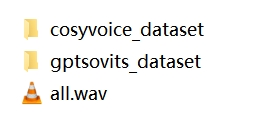
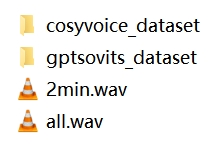
新增输出2分钟音频功能
新增输出2分钟音频功能，适用于必剪音色快速定制。

Changed region(s): [[0.0818, 0.0744, 0.9273, 0.9174]]

diff --git a/src/output.py b/src/output.py
@@ -217,16 +217,20 @@ def find_wav_files(directory):
     return [f for _, _, files in os.walk(directory) 
             for f in files if f.lower().endswith('.wav')]
 
-def merge_wav_files(directory, output_file):
+def merge_wav_files(directory, output_file, max_duration=9999999):
     """
-    遍历指定目录下的所有 .wav 文件，并将其全部合并为一个 .wav 文件并导出。
-    
+    遍历指定目录下的所有 .wav 文件，并将其合并为一个 .wav 文件并导出，支持设置最大音频时长。
+
     参数:
         directory (str): 包含 .wav 文件的目录路径
         output_file (str): 合并后的输出文件路径（包含文件名）
+        max_duration (int 或 float): 最大音频时长(秒)，默认为 9999999 秒
     """
     # 创建一个空音频段用于拼接
     combined_audio = AudioSegment.silent(duration=0)
+
+    # 转换最大时长为毫秒（AudioSegment 使用毫秒作为时间单位）
+    max_duration_ms = max_duration * 1000
 
     # 遍历目录下的所有文件
     for filename in os.listdir(directory):
@@ -235,6 +239,12 @@ def merge_wav_files(directory, output_file):
             try:
                 # 加载音频文件
                 audio = AudioSegment.from_wav(filepath)
+
+                # 检查当前合并后的音频是否超过最大时长
+                if len(combined_audio) + len(audio) > max_duration_ms:
+                    print(f"警告: 已达到最大时长 {max_duration} 秒，停止合并")
+                    break
+
                 # 合并音频
                 combined_audio += audio
                 print(f"已合并: {filename}")
@@ -298,6 +308,7 @@ def main(project_name='default', json_file='corpus/zh_corpus_v1.json', wav_dir='
 
     # 合并音频
     merge_wav_files(slicer_opt_path, f"{projects_dir}/all.wav")
+    merge_wav_files(slicer_opt_path, f"{projects_dir}/2min.wav", 120)
 
     # CosyVoice数据集
     cosyvoice_path = f'{projects_dir}/cosyvoice_dataset/libritts/LibriTTS'

diff --git a/README.md b/README.md
@@ -57,6 +57,7 @@
     - `gptsovits_dataset`目录：GPT-SoVITS训练所需的数据集，需要将其放置到例如`GPT-SoVITS-v4-20250422-nvidia50\output`目录里，然后使用WebUI来执行训练。
     - `cosyvoice_dataset`目录：CosyVoice训练所需的数据集，需要将其放置到例如`CosyVoice/examples/libritts/cosyvoice2/tensorboard/cosyvoice2`目录里，然后修改`run.sh`来执行训练。
     - `all.wav`：合并了所有音频的音频文件。  
+    - `2min.wav`：总长2分钟的音频文件，适用于[必剪](https://member.bilibili.com/york/bilibili-studio/unlogin)音色快速定制。
     ![项目目录](./src/项目目录截图.png)
 6. 点击菜单栏里的`文件 -> 打开项目目录`，然后将对应项目里的文件复制到其他语音克隆项目里使用。  
 
